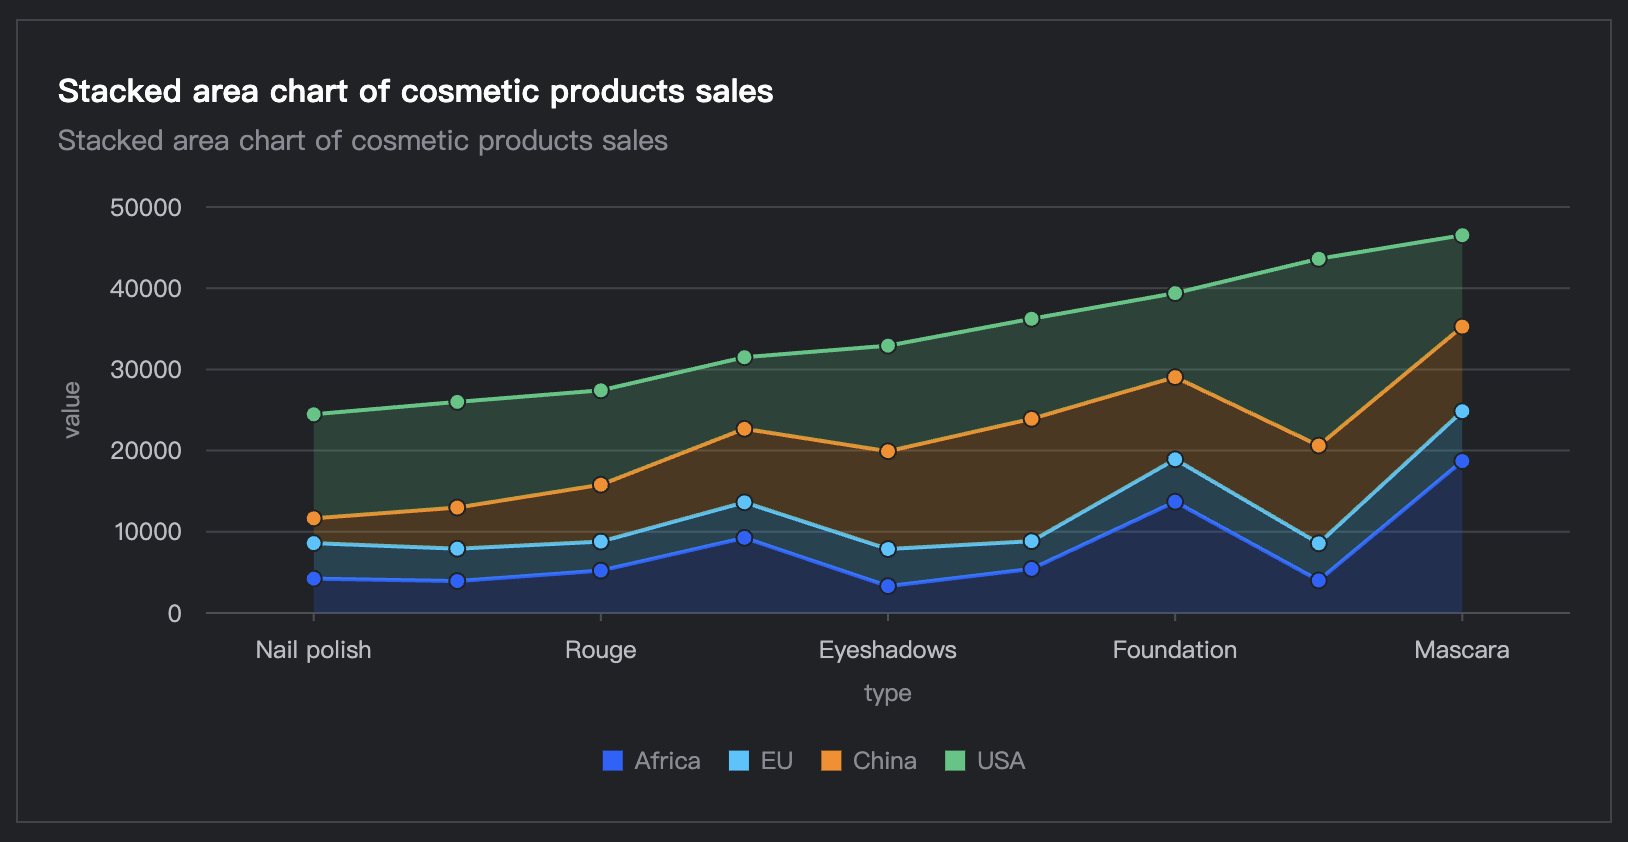
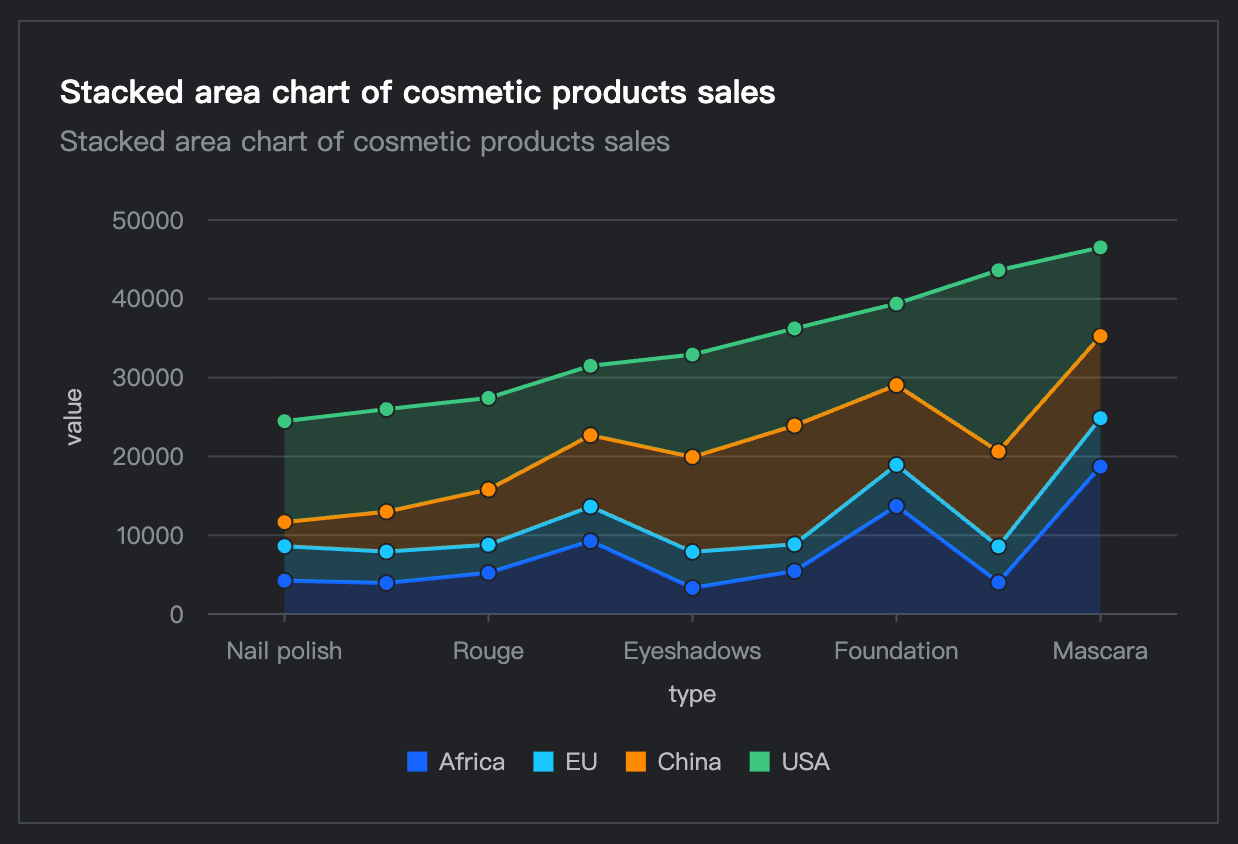
feat: vchart-theme tutorial

diff --git a/docs/assets/guide/en/tutorial_docs/Theme/Theme_Extension.md b/docs/assets/guide/en/tutorial_docs/Theme/Theme_Extension.md
@@ -1,0 +1,138 @@
+# VChart 扩展主题包
+
+The English version is working in progress.
+
+在默认主题的基础上，VChart 也封装了一系列开箱即用的扩展主题，以单独主题包的形式提供。这些主题默认没有内置在 VChart 里，而是支持用户按需使用，使用户可以通过更少的工作获得更美观宜人、更贴合使用场景的 VChart 图表。
+
+此外，VChart 针对现有组件库也做了单独的主题包。这些包将在下文分别介绍。
+
+## 扩展主题包 @visactor/vchart-theme
+
+vchart-theme 包含了一些扩展主题，以 `ITheme` 对象或静态 json 资源的形式提供。
+
+### DEMO
+
+请访问 [codesandbox](https://vv67jn.csb.app/) 进行预览。
+
+### 安装
+
+[@visactor/vchart-theme](https://www.npmjs.com/package/@visactor/vchart-theme)
+
+```bash
+# npm
+npm install @visactor/vchart-theme
+
+# yarn
+yarn add @visactor/vchart-theme
+```
+
+### 使用
+
+注册 vchart-theme 中包含的主题并使用：
+
+```typescript
+import { allThemeMap } from '@visactor/vchart-theme';
+import VChart from '@visactor/vchart';
+
+// register themes
+allThemeMap.forEach((theme, name) => {
+  VChart.ThemeManager.registerTheme(name, theme);
+});
+
+// apply a theme
+VChart.ThemeManager.setCurrentTheme('vScreenVolcanoBlue');
+```
+
+如果你只需要使用某个特定主题，还可以从该包中引用该主题的 JSON 文件：
+
+```typescript
+import vScreenVolcanoBlue from '@visactor/vchart-theme/public/vScreenVolcanoBlue.json';
+import VChart from '@visactor/vchart';
+
+// register the theme
+VChart.ThemeManager.registerTheme('vScreenVolcanoBlue', vScreenVolcanoBlue);
+
+// apply the theme
+VChart.ThemeManager.setCurrentTheme('vScreenVolcanoBlue');
+```
+
+该包主要包含以下主题 json 资源：
+
+- [vScreenVolcanoBlue](https://raw.githubusercontent.com/VisActor/vchart-theme/main/packages/vchart-theme/public/vScreenVolcanoBlue.json) 大屏-火山蓝
+- [vScreenClean](https://raw.githubusercontent.com/VisActor/vchart-theme/main/packages/vchart-theme/public/vScreenClean.json) 大屏-清新蜡笔
+- [vScreenOutskirts](https://raw.githubusercontent.com/VisActor/vchart-theme/main/packages/vchart-theme/public/vScreenOutskirts.json) 大屏-郊外
+- [vScreenBlueOrange](https://raw.githubusercontent.com/VisActor/vchart-theme/main/packages/vchart-theme/public/vScreenBlueOrange.json) 大屏-汽车蓝橙
+- [vScreenFinanceYellow](https://raw.githubusercontent.com/VisActor/vchart-theme/main/packages/vchart-theme/public/vScreenFinanceYellow.json) 大屏-金融黄
+- [vScreenWenLvCyan](https://raw.githubusercontent.com/VisActor/vchart-theme/main/packages/vchart-theme/public/vScreenWenLvCyan.json) 大屏-文旅青
+- [vScreenElectricGreen](https://raw.githubusercontent.com/VisActor/vchart-theme/main/packages/vchart-theme/public/vScreenElectricGreen.json) 大屏-电力绿
+- [vScreenECommercePurple](https://raw.githubusercontent.com/VisActor/vchart-theme/main/packages/vchart-theme/public/vScreenECommercePurple.json) 大屏-电商紫
+- [vScreenRedBlue](https://raw.githubusercontent.com/VisActor/vchart-theme/main/packages/vchart-theme/public/vScreenRedBlue.json) 大屏-红蓝
+- [vScreenPartyRed](https://raw.githubusercontent.com/VisActor/vchart-theme/main/packages/vchart-theme/public/vScreenPartyRed.json) 大屏-党建红
+
+## Semi Design 主题包 @visactor/vchart-semi-theme
+
+VChart 是适合与 [Semi Design](https://github.com/DouyinFE/semi-design) 搭配使用的图表库。为了使 VChart 在 Semi 页面环境中获得更好的体验，我们推出了 vchart-semi-theme 包。这个包有以下特性：
+
+- 开箱即用：经过简单的配置，就可以使 VChart 样式自动融入 Semi 设计语言，也会自动适配用户通过 Semi DSM 自定义的主题包。
+- 响应式：vchart-semi-theme 支持监听页面上的亮暗模式变化以及主题切换，自动对页面上的 VChart 图表的主题进行热更新。
+
+### DEMO
+
+请访问 [codesandbox](https://vp4y9p.csb.app/) 进行预览。
+
+### 安装
+
+[@visactor/vchart-semi-theme](https://www.npmjs.com/package/@visactor/vchart-semi-theme)
+
+```bash
+# npm
+npm install @visactor/vchart-semi-theme
+
+# yarn
+yarn add @visactor/vchart-semi-theme
+```
+
+### 使用
+
+实现默认的功能，只需要在全局执行一次 `initVChartSemiTheme` 方法进行初始化。这个语句通常可以放在 react 项目的入口文件中。如以下示例：
+
+```javascript
+import React from 'react';
+import { createRoot } from 'react-dom/client';
+import App from './app.jsx';
+import { initVChartSemiTheme } from '@visactor/vchart-semi-theme';
+
+// initialization
+initVChartSemiTheme();
+
+const dom = document.querySelector('#root');
+const root = createRoot(dom);
+root.render(<App />);
+```
+
+`initVChartSemiTheme` 方法支持传入一个对象作为 option，其类型声明为：
+
+```typescript
+interface IInitVChartSemiThemeOption {
+  /** 初始亮暗色模式 */
+  defaultMode?: 'light' | 'dark';
+  /** 是否监听亮暗色模式自动更改图表主题，默认为 true */
+  isWatchingMode?: boolean;
+  /** 是否监听主题变化自动更改图表主题，默认为 false（适用于 semi 官方主题切换接口：https://semi.design/dsm/install_switcher）*/
+  isWatchingThemeSwitch?: boolean;
+}
+```
+
+例如，如果要开启监听用户侧的主题切换，初始化语句可以改为这样：
+
+```javascript
+// initialization
+initVChartSemiTheme({
+  isWatchingThemeSwitch: true
+});
+```
+
+该包同时包含两个静态的主题 json 资源（静态资源只适用于默认的 Semi 主题），可以按需使用。
+
+- [semiDesignLight](https://raw.githubusercontent.com/VisActor/vchart-theme/main/packages/vchart-semi-theme/public/semiDesignLight.json) Semi Design - light
+- [semiDesignDark](https://raw.githubusercontent.com/VisActor/vchart-theme/main/packages/vchart-semi-theme/public/semiDesignDark.json) Semi Design - dark

diff --git a/docs/assets/guide/zh/tutorial_docs/Theme/Theme_Extension.md b/docs/assets/guide/zh/tutorial_docs/Theme/Theme_Extension.md
@@ -1,0 +1,136 @@
+# VChart 扩展主题包
+
+在默认主题的基础上，VChart 也封装了一系列开箱即用的扩展主题，以单独主题包的形式提供。这些主题默认没有内置在 VChart 里，而是支持用户按需使用，使用户可以通过更少的工作获得更美观宜人、更贴合使用场景的 VChart 图表。
+
+此外，VChart 针对现有组件库也做了单独的主题包。这些包将在下文分别介绍。
+
+## 扩展主题包 @visactor/vchart-theme
+
+vchart-theme 包含了一些扩展主题，以 `ITheme` 对象或静态 json 资源的形式提供。
+
+### DEMO
+
+请访问 [codesandbox](https://vv67jn.csb.app/) 进行预览。
+
+### 安装
+
+[@visactor/vchart-theme](https://www.npmjs.com/package/@visactor/vchart-theme)
+
+```bash
+# npm
+npm install @visactor/vchart-theme
+
+# yarn
+yarn add @visactor/vchart-theme
+```
+
+### 使用
+
+注册 vchart-theme 中包含的主题并使用：
+
+```typescript
+import { allThemeMap } from '@visactor/vchart-theme';
+import VChart from '@visactor/vchart';
+
+// register themes
+allThemeMap.forEach((theme, name) => {
+  VChart.ThemeManager.registerTheme(name, theme);
+});
+
+// apply a theme
+VChart.ThemeManager.setCurrentTheme('vScreenVolcanoBlue');
+```
+
+如果你只需要使用某个特定主题，还可以从该包中引用该主题的 JSON 文件：
+
+```typescript
+import vScreenVolcanoBlue from '@visactor/vchart-theme/public/vScreenVolcanoBlue.json';
+import VChart from '@visactor/vchart';
+
+// register the theme
+VChart.ThemeManager.registerTheme('vScreenVolcanoBlue', vScreenVolcanoBlue);
+
+// apply the theme
+VChart.ThemeManager.setCurrentTheme('vScreenVolcanoBlue');
+```
+
+该包主要包含以下主题 json 资源：
+
+- [vScreenVolcanoBlue](https://raw.githubusercontent.com/VisActor/vchart-theme/main/packages/vchart-theme/public/vScreenVolcanoBlue.json) 大屏-火山蓝
+- [vScreenClean](https://raw.githubusercontent.com/VisActor/vchart-theme/main/packages/vchart-theme/public/vScreenClean.json) 大屏-清新蜡笔
+- [vScreenOutskirts](https://raw.githubusercontent.com/VisActor/vchart-theme/main/packages/vchart-theme/public/vScreenOutskirts.json) 大屏-郊外
+- [vScreenBlueOrange](https://raw.githubusercontent.com/VisActor/vchart-theme/main/packages/vchart-theme/public/vScreenBlueOrange.json) 大屏-汽车蓝橙
+- [vScreenFinanceYellow](https://raw.githubusercontent.com/VisActor/vchart-theme/main/packages/vchart-theme/public/vScreenFinanceYellow.json) 大屏-金融黄
+- [vScreenWenLvCyan](https://raw.githubusercontent.com/VisActor/vchart-theme/main/packages/vchart-theme/public/vScreenWenLvCyan.json) 大屏-文旅青
+- [vScreenElectricGreen](https://raw.githubusercontent.com/VisActor/vchart-theme/main/packages/vchart-theme/public/vScreenElectricGreen.json) 大屏-电力绿
+- [vScreenECommercePurple](https://raw.githubusercontent.com/VisActor/vchart-theme/main/packages/vchart-theme/public/vScreenECommercePurple.json) 大屏-电商紫
+- [vScreenRedBlue](https://raw.githubusercontent.com/VisActor/vchart-theme/main/packages/vchart-theme/public/vScreenRedBlue.json) 大屏-红蓝
+- [vScreenPartyRed](https://raw.githubusercontent.com/VisActor/vchart-theme/main/packages/vchart-theme/public/vScreenPartyRed.json) 大屏-党建红
+
+## Semi Design 主题包 @visactor/vchart-semi-theme
+
+VChart 是适合与 [Semi Design](https://github.com/DouyinFE/semi-design) 搭配使用的图表库。为了使 VChart 在 Semi 页面环境中获得更好的体验，我们推出了 vchart-semi-theme 包。这个包有以下特性：
+
+- 开箱即用：经过简单的配置，就可以使 VChart 样式自动融入 Semi 设计语言，也会自动适配用户通过 Semi DSM 自定义的主题包。
+- 响应式：vchart-semi-theme 支持监听页面上的亮暗模式变化以及主题切换，自动对页面上的 VChart 图表的主题进行热更新。
+
+### DEMO
+
+请访问 [codesandbox](https://vp4y9p.csb.app/) 进行预览。
+
+### 安装
+
+[@visactor/vchart-semi-theme](https://www.npmjs.com/package/@visactor/vchart-semi-theme)
+
+```bash
+# npm
+npm install @visactor/vchart-semi-theme
+
+# yarn
+yarn add @visactor/vchart-semi-theme
+```
+
+### 使用
+
+实现默认的功能，只需要在全局执行一次 `initVChartSemiTheme` 方法进行初始化。这个语句通常可以放在 react 项目的入口文件中。如以下示例：
+
+```javascript
+import React from 'react';
+import { createRoot } from 'react-dom/client';
+import App from './app.jsx';
+import { initVChartSemiTheme } from '@visactor/vchart-semi-theme';
+
+// initialization
+initVChartSemiTheme();
+
+const dom = document.querySelector('#root');
+const root = createRoot(dom);
+root.render(<App />);
+```
+
+`initVChartSemiTheme` 方法支持传入一个对象作为 option，其类型声明为：
+
+```typescript
+interface IInitVChartSemiThemeOption {
+  /** 初始亮暗色模式 */
+  defaultMode?: 'light' | 'dark';
+  /** 是否监听亮暗色模式自动更改图表主题，默认为 true */
+  isWatchingMode?: boolean;
+  /** 是否监听主题变化自动更改图表主题，默认为 false（适用于 semi 官方主题切换接口：https://semi.design/dsm/install_switcher）*/
+  isWatchingThemeSwitch?: boolean;
+}
+```
+
+例如，如果要开启监听用户侧的主题切换，初始化语句可以改为这样：
+
+```javascript
+// initialization
+initVChartSemiTheme({
+  isWatchingThemeSwitch: true
+});
+```
+
+该包同时包含两个静态的主题 json 资源（静态资源只适用于默认的 Semi 主题），可以按需使用。
+
+- [semiDesignLight](https://raw.githubusercontent.com/VisActor/vchart-theme/main/packages/vchart-semi-theme/public/semiDesignLight.json) Semi Design - light
+- [semiDesignDark](https://raw.githubusercontent.com/VisActor/vchart-theme/main/packages/vchart-semi-theme/public/semiDesignDark.json) Semi Design - dark
